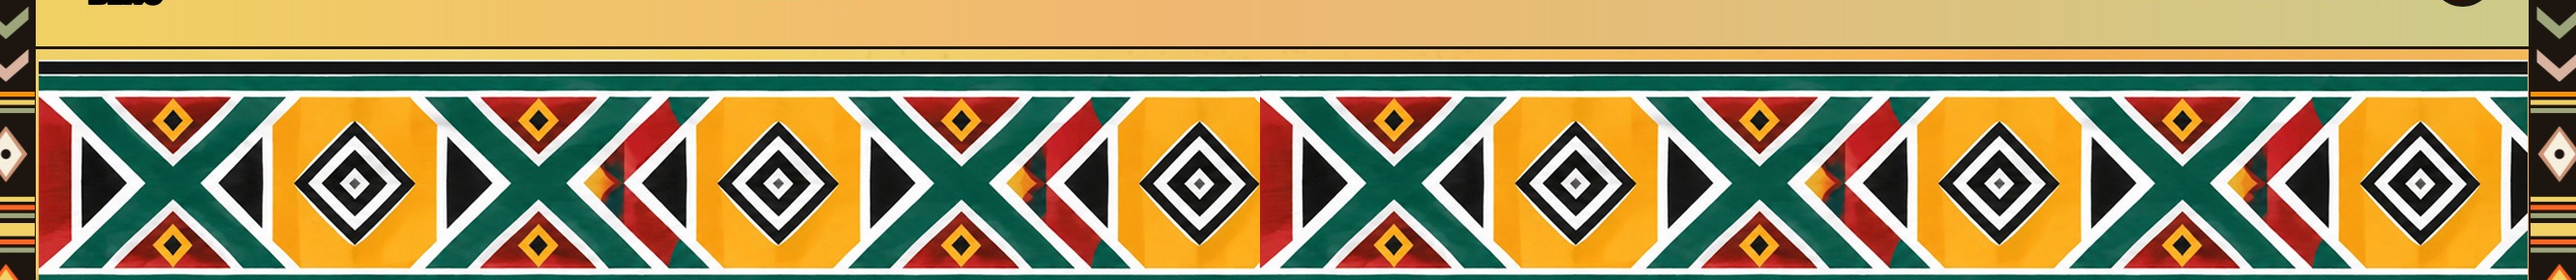
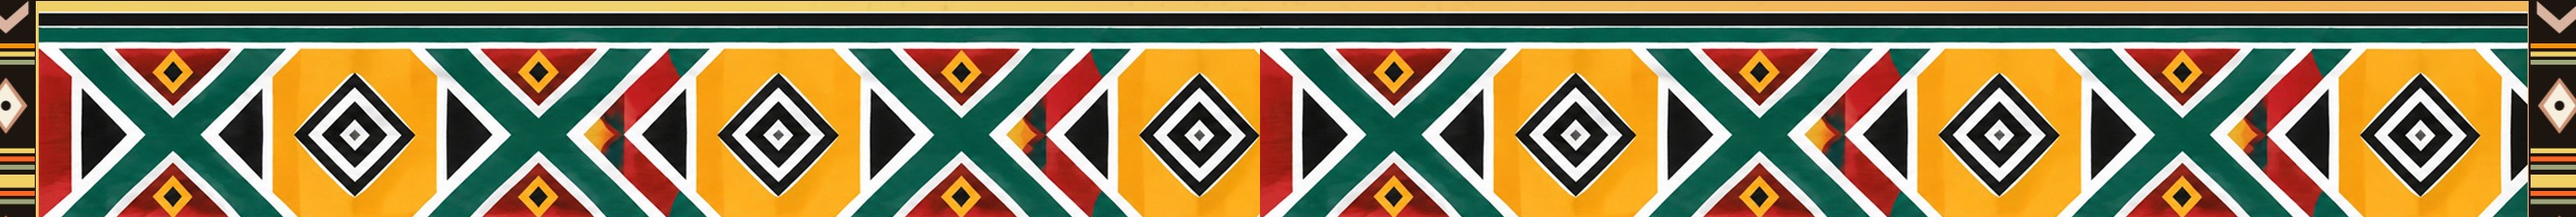
Remove the visible white strip between the navigation and the top band
Adjust CSS specificity to remove top padding from the hero section and recrop the hero-band-top.png image.

Replit-Commit-Author: Agent
Replit-Commit-Session-Id: e2594b98-200e-49a8-9c1f-391d2181b889
Replit-Commit-Checkpoint-Type: full_checkpoint
Replit-Commit-Event-Id: 379a94f8-4fe6-4a0d-b814-e3207f352ad9
Replit-Commit-Screenshot-Url: https://storage.googleapis.com/screenshot-production-us-central1/ef1ab748-c4a9-44e3-95f6-644c84ff6db3/e2594b98-200e-49a8-9c1f-391d2181b889/p1IaUsb
Replit-Helium-Checkpoint-Created: true

diff --git a/artifacts/fmly-bzns/src/index.css b/artifacts/fmly-bzns/src/index.css
@@ -358,6 +358,9 @@ button[type="submit"]:hover { background: var(--orange); }
    HERO
    ---------------------------------------------------------- */
 
+.section.hero {
+  padding-top: 0;
+}
 .hero {
   padding: 0 0 1.5rem;
   background:
